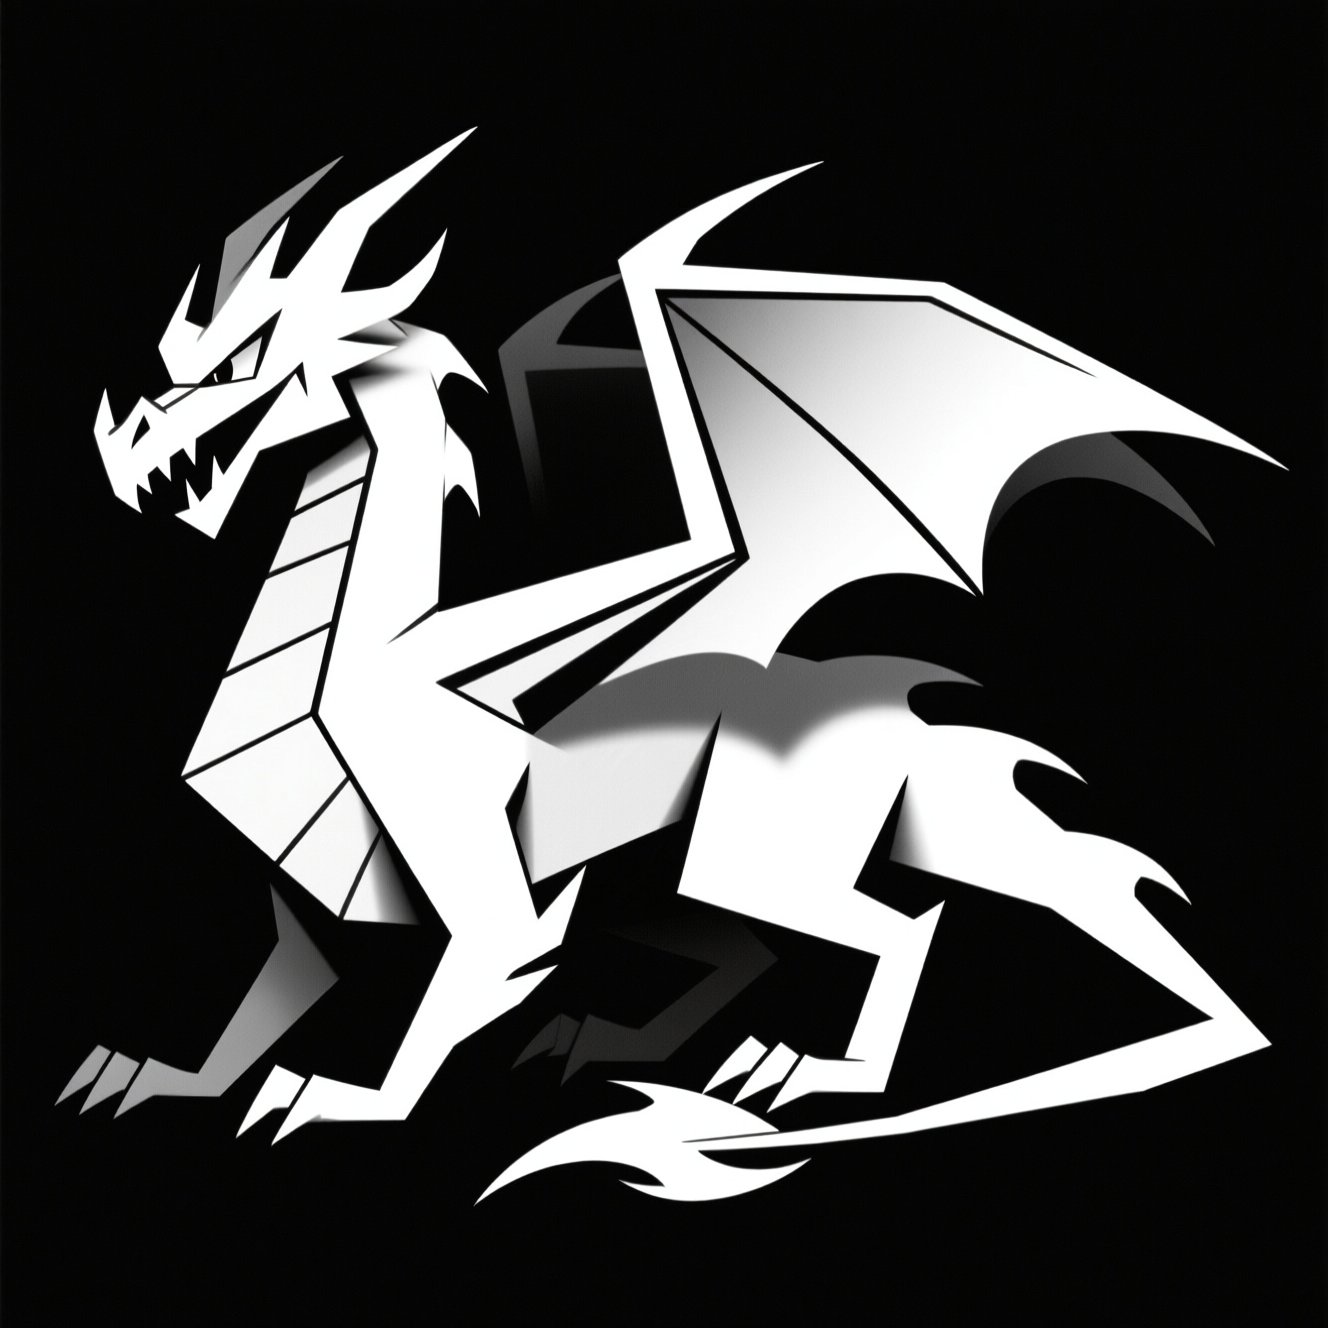
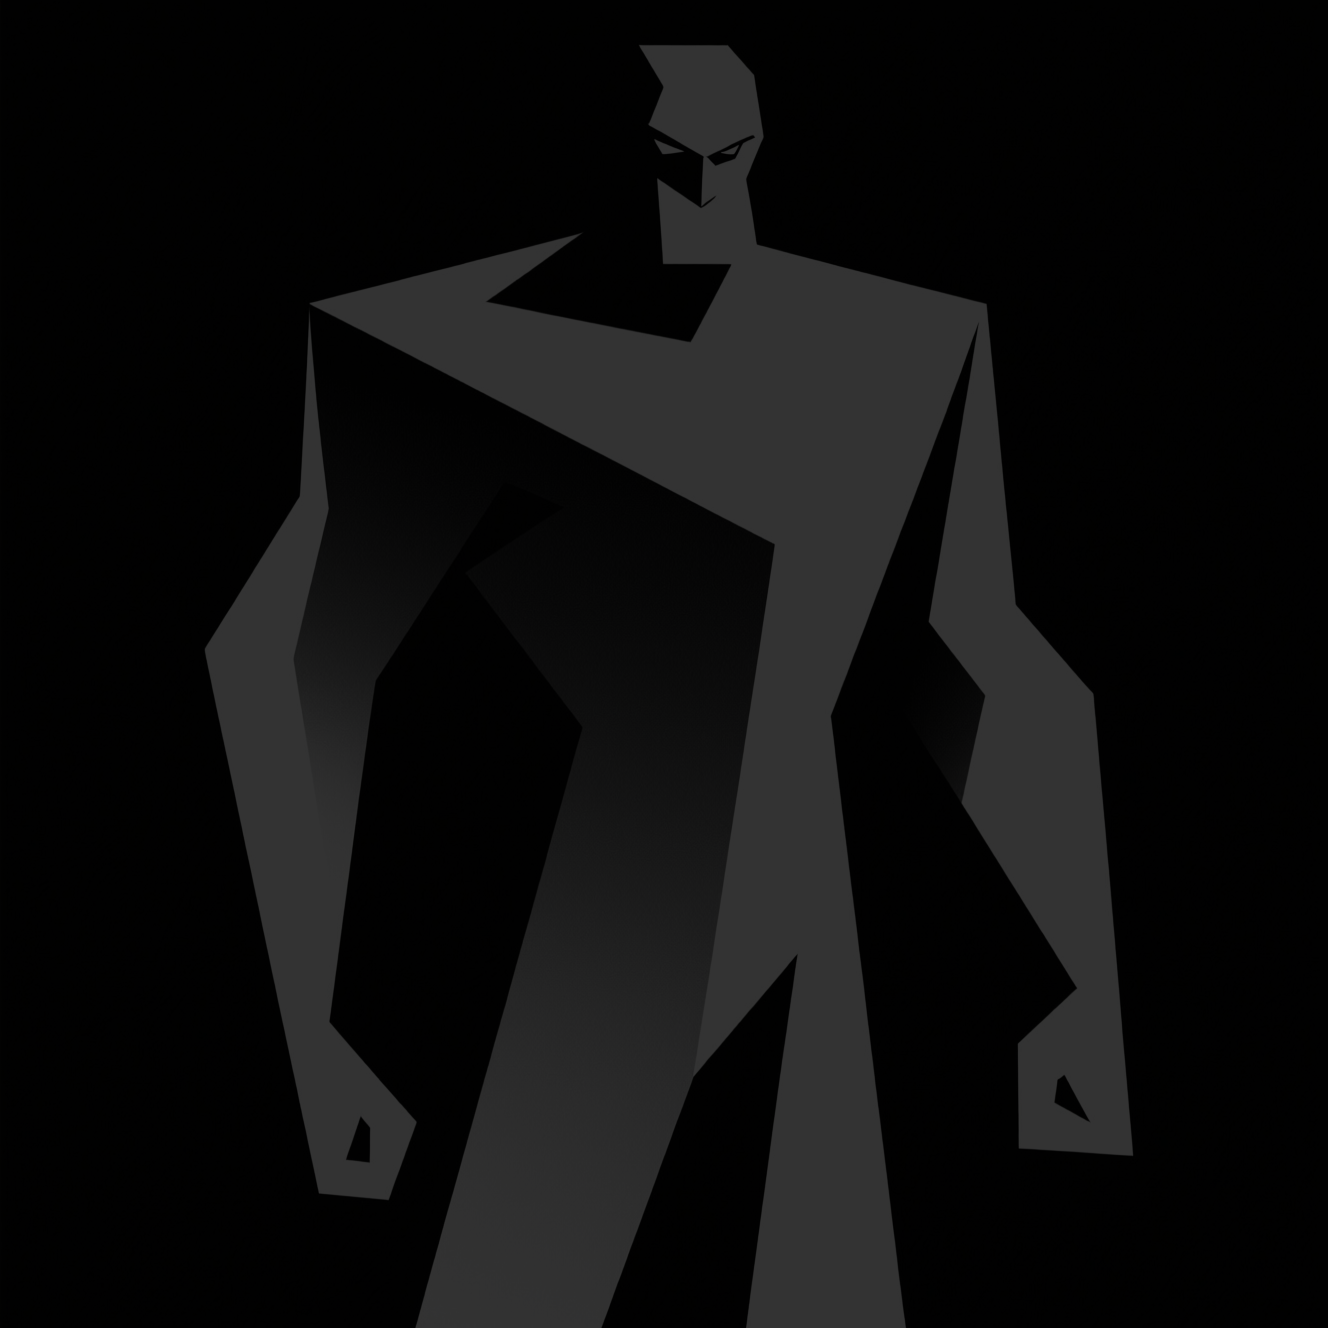
文生图

diff --git a/src/services/tti.js b/src/services/tti.js
@@ -1,0 +1,116 @@
+import imgPromptTpl from '../../dev_docs/img_prompt.md?raw';
+
+const apiKey = import.meta.env.VITE_SOPHNET_API_KEY;
+if (!apiKey) {
+  throw new Error('VITE_SOPHNET_API_KEY is not set in the environment variables.');
+}
+
+// 固定配置：按示例值，可通过环境变量覆写
+const PROJECT_ID = import.meta.env.VITE_SOPHNET_PROJECT_ID || '3SEkXt23xpXqc8dSfVrQYc';
+const EASYLLM_ID = import.meta.env.VITE_SOPHNET_TTI_EASYLLM_ID || '4WIr64tflXmVuYz9lgKbtI';
+const MODEL = import.meta.env.VITE_SOPHNET_TTI_MODEL || 'qwen-image';
+const SIZE = import.meta.env.VITE_TTI_SIZE || '1328*1328';
+const SEED = Number.isFinite(Number(import.meta.env.VITE_TTI_SEED)) ? Number(import.meta.env.VITE_TTI_SEED) : Math.floor(Math.random() * 123456);
+const STEPS = Number.isFinite(Number(import.meta.env.VITE_TTI_STEPS)) ? Number(import.meta.env.VITE_TTI_STEPS) : 30;
+
+const BASE = 'https://www.sophnet.com/api/open-apis/projects';
+
+// 简单内存缓存：name -> url
+const nameToUrl = new Map();
+
+function buildPromptForName(minionName) {
+  const safeName = String(minionName || '').trim() || '无名随从';
+  return imgPromptTpl.replace('[随从名称]', safeName);
+}
+
+async function createTask(prompt) {
+  const url = `${BASE}/${encodeURIComponent(PROJECT_ID)}/easyllms/texttoimage/task`;
+  const resp = await fetch(url, {
+    method: 'POST',
+    headers: {
+      'Authorization': `Bearer ${apiKey}`,
+      'Content-Type': 'application/json'
+    },
+    body: JSON.stringify({
+      easyllm_id: EASYLLM_ID,
+      model: MODEL,
+      input: { prompt },
+      parameters: {
+        size: SIZE,
+        seed: SEED,
+        steps: STEPS
+      }
+    })
+  });
+  if (!resp.ok) {
+    const text = await resp.text().catch(() => '');
+    throw new Error(`TTI createTask failed: ${resp.status} ${resp.statusText} ${text}`);
+  }
+  const data = await resp.json().catch(() => ({}));
+  // 兼容多种返回体：优先 task_id 字段
+  const taskId = data?.task_id || data?.output?.taskId || data?.data?.task_id || data?.data?.taskId;
+  if (!taskId) throw new Error('TTI createTask: missing task_id');
+  return taskId;
+}
+
+async function getTaskStatus(taskId) {
+  const url = `${BASE}/${encodeURIComponent(PROJECT_ID)}/easyllms/texttoimage/task/${encodeURIComponent(taskId)}`;
+  const resp = await fetch(url, {
+    method: 'GET',
+    headers: {
+      'Authorization': `Bearer ${apiKey}`,
+      'Content-Type': 'application/json'
+    }
+  });
+  if (!resp.ok) {
+    const text = await resp.text().catch(() => '');
+    throw new Error(`TTI getTaskStatus failed: ${resp.status} ${resp.statusText} ${text}`);
+  }
+  const data = await resp.json().catch(() => ({}));
+  const status = data?.output?.taskStatus || data?.status || data?.data?.status;
+  const urlResult = data?.output?.results?.[0]?.url || data?.results?.[0]?.url || data?.data?.results?.[0]?.url;
+  return { status, url: urlResult };
+}
+
+async function pollTaskResult(taskId, {
+  intervalMs = 1500,
+  timeoutMs = 120000,
+} = {}) {
+  const start = Date.now();
+  while (true) {
+    const { status, url } = await getTaskStatus(taskId);
+    if ((status === 'SUCCEEDED' || status === 'SUCCESSED') && url) return url;
+    if (status === 'FAILED' || status === 'CANCELED') throw new Error(`TTI task ${taskId} ${status}`);
+    if (Date.now() - start > timeoutMs) throw new Error(`TTI task ${taskId} timeout`);
+    await new Promise((r) => setTimeout(r, intervalMs));
+  }
+}
+
+export async function getOrGenerateMinionImage(minionName) {
+  const key = String(minionName || '').trim();
+  if (!key) return null;
+  if (nameToUrl.has(key)) return nameToUrl.get(key);
+  const prompt = buildPromptForName(key);
+  const taskId = await createTask(prompt);
+  const url = await pollTaskResult(taskId);
+  nameToUrl.set(key, url);
+  return url;
+}
+
+export function getCachedImage(minionName) {
+  const key = String(minionName || '').trim();
+  if (!key) return null;
+  return nameToUrl.get(key) || null;
+}
+
+export function setCachedImage(minionName, url) {
+  const key = String(minionName || '').trim();
+  if (!key || !url) return;
+  nameToUrl.set(key, url);
+}
+
+export function getCacheSnapshot() {
+  return Array.from(nameToUrl.entries()).reduce((acc, [k, v]) => { acc[k] = v; return acc; }, {});
+}
+
+

diff --git a/src/App.vue b/src/App.vue
@@ -1,10 +1,11 @@
 <script setup>
-import { ref, onMounted, onUnmounted, computed } from 'vue';
+import { ref, onMounted, onUnmounted, computed, watch } from 'vue';
 import Word from './components/Word.vue';
 import Battlefield from './components/Battlefield.vue';
 import { generateStoryStream } from './services/sophnet.js';
 import { BACK_SPEED, DRAG_LERP, MAX_SPEED, MIN_SPEED } from './constants.js';
 import { initVoices, disposeVoices, speakAsync } from './services/tts.js';
+import { getOrGenerateMinionImage } from './services/tti.js';
 
 // 容器引用
 const bottomEl = ref(null);
@@ -196,12 +197,6 @@ const gameState = ref({
     status: ""
   },
   minions: [
-    {
-      name: "测试随从",
-      attack: 3,
-      health: 4,
-      status: ""
-    }
   ],
   player: {
     health: 30,
@@ -209,6 +204,37 @@ const gameState = ref({
   },
   words: INITIAL_WORDS.slice()
 });
+
+// 文生图：随从名 -> 图片 URL
+const minionImages = ref({});
+const generatingNames = new Set();
+
+function ensureMinionImage(name) {
+  const key = String(name || '').trim();
+  if (!key) return;
+  if (minionImages.value[key]) return;
+  if (generatingNames.has(key)) return;
+  generatingNames.add(key);
+  getOrGenerateMinionImage(key)
+    .then((url) => {
+      if (url) {
+        // 触发响应式更新
+        minionImages.value = { ...minionImages.value, [key]: url };
+      }
+    })
+    .catch(() => {})
+    .finally(() => generatingNames.delete(key));
+}
+
+// 监听随从列表变化，按名称触发图片生成/缓存
+watch(
+  () => (gameState.value.minions || []).map((m) => m?.name).join('|'),
+  () => {
+    const list = Array.isArray(gameState.value.minions) ? gameState.value.minions : [];
+    for (const m of list) ensureMinionImage(m?.name);
+  },
+  { immediate: true }
+);
 
 // 悬浮状态（来自战场卡牌）
 const hoveredStatus = ref('');
@@ -747,6 +773,7 @@ function applyStateChange(partial) {
             :enemy="gameState.enemy"
             :minions="gameState.minions"
             :player="gameState.player"
+            :minionImages="minionImages"
             @card-hover="handleCardHover"
           />
         </div>

diff --git a/src/components/MinionCard.vue b/src/components/MinionCard.vue
@@ -1,7 +1,10 @@
 <template>
   <div class="minion-card" ref="cardEl" @mouseenter="$emit('mouseenter')" @mouseleave="$emit('mouseleave')">
     <div class="art">
-      <img :src="effectiveImage" alt="minion" />
+      <div v-if="!props.imageSrc" class="art-loading">
+        <div class="spinner" />
+      </div>
+      <img v-else :src="props.imageSrc" alt="minion" />
     </div>
     <div class="name">{{ name }}</div>
     <div class="attack" ref="atkEl">{{ attack }}</div>
@@ -10,8 +13,7 @@
 </template>
 
 <script setup>
-import { ref, watch, nextTick, computed } from 'vue';
-import defaultMinion from '../../test_minion.png';
+import { ref, watch, nextTick } from 'vue';
 
 const props = defineProps({
   name: String,
@@ -24,8 +26,6 @@ defineEmits(['mouseenter', 'mouseleave']);
 const cardEl = ref(null);
 const atkEl = ref(null);
 const hpEl = ref(null);
-
-const effectiveImage = computed(() => props.imageSrc || defaultMinion);
 
 function triggerAnimation(elRef, className) {
   const el = elRef && elRef.value;
@@ -104,6 +104,28 @@ watch(() => props.attack, async (nv, ov) => {
   object-fit: contain; /* 适配1328x1328，保持比例不裁切 */
   display: block;
   /* filter: grayscale(100%) invert(100%); */
+}
+
+.art-loading {
+  width: 100%;
+  height: 100%;
+  display: flex;
+  align-items: center;
+  justify-content: center;
+}
+
+.spinner {
+  width: 36px;
+  height: 36px;
+  border: 3px solid rgba(255, 255, 255, 0.25);
+  border-top-color: #ffffff;
+  border-radius: 50%;
+  animation: spin 0.9s linear infinite;
+}
+
+@keyframes spin {
+  from { transform: rotate(0deg); }
+  to { transform: rotate(360deg); }
 }
 
 .minion-card:hover {

diff --git a/src/components/Battlefield.vue b/src/components/Battlefield.vue
@@ -28,6 +28,7 @@
           :name="slot.name"
           :attack="slot.attack"
           :health="slot.health"
+          :imageSrc="props.minionImages && slot?.name ? props.minionImages[slot.name] : undefined"
           @mouseenter="$emit('card-hover', { hovering: true, status: slot.status })"
           @mouseleave="$emit('card-hover', { hovering: false })"
         />
@@ -57,7 +58,8 @@ import MinionCard from './MinionCard.vue';
 const props = defineProps({
   enemy: Object,
   minions: Array,
-  player: Object
+  player: Object,
+  minionImages: Object
 });
 
 defineEmits(['card-hover']);

diff --git a/dev_docs/img_prompt.md b/dev_docs/img_prompt.md
@@ -1,1 +1,1 @@
-一个[随从名称]全身像，采用 Genndy Tartakovsky 标志性的锋利、几何感和极简主义艺术风格。纯黑白设计。该设计以其充满力量感的棱角分明轮廓为特点，并运用了干净的纯黑白线条，没有任何阴影、纹理或渐变。置于一个纯黑色背景中，画面无边框。 
+一个[随从名称]全身像，采用 Genndy Tartakovsky 标志性的锋利、几何感和极简主义艺术风格。纯黑白设计。该设计以其充满力量感的棱角分明轮廓为特点，并运用了干净的纯黑白线条，纯粹由几何图形拼接而成，没有任何细节、阴影、纹理或渐变。置于一个纯黑色背景中，画面无边框。 
